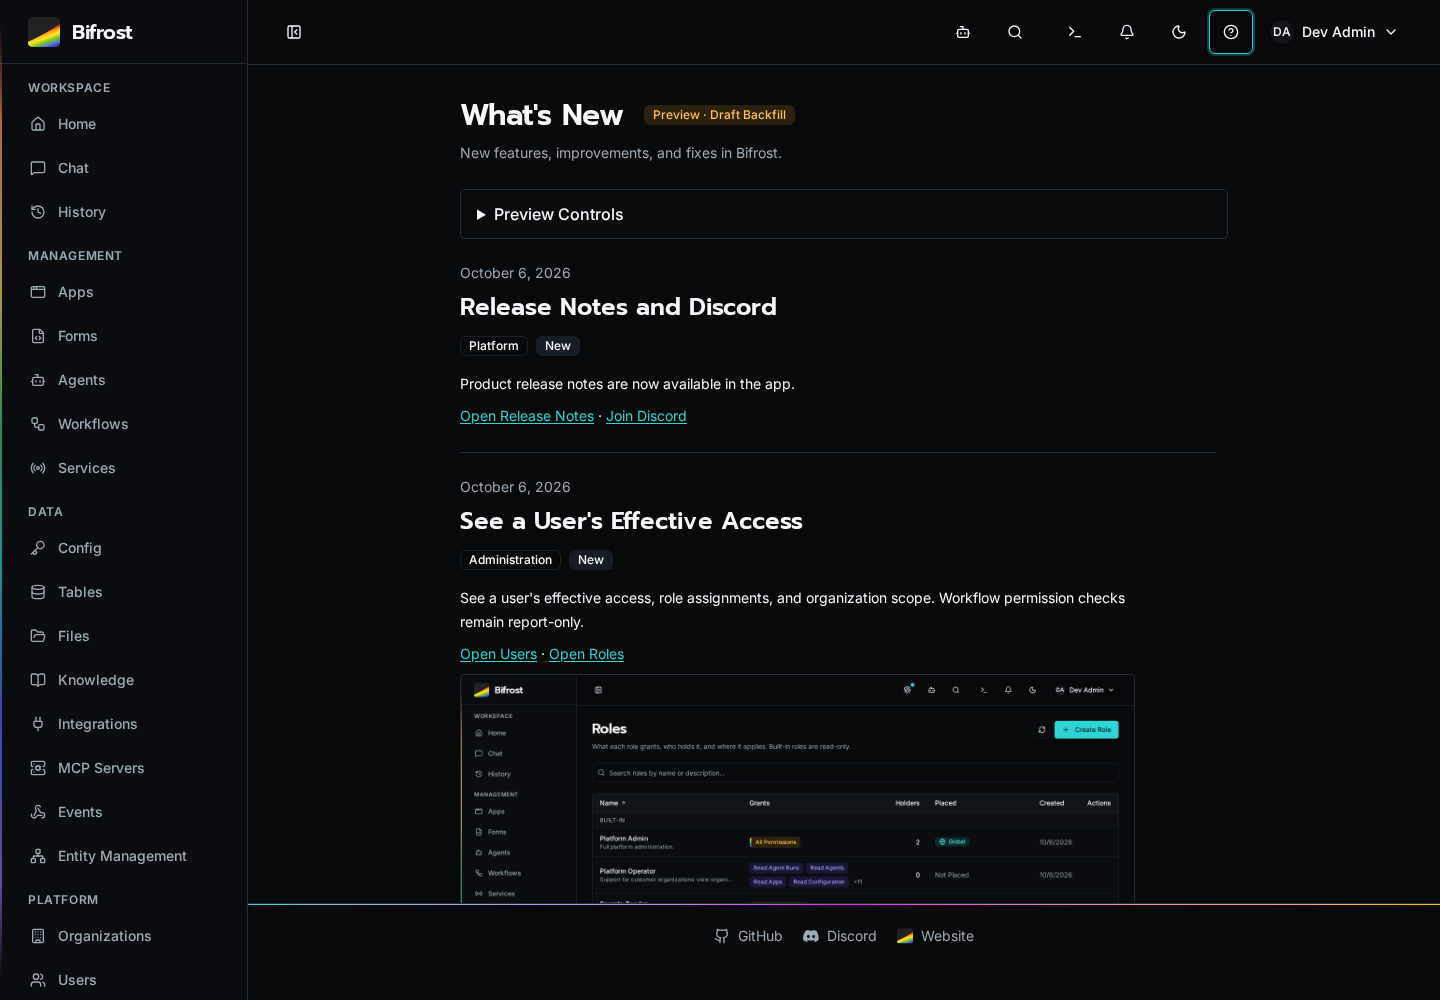
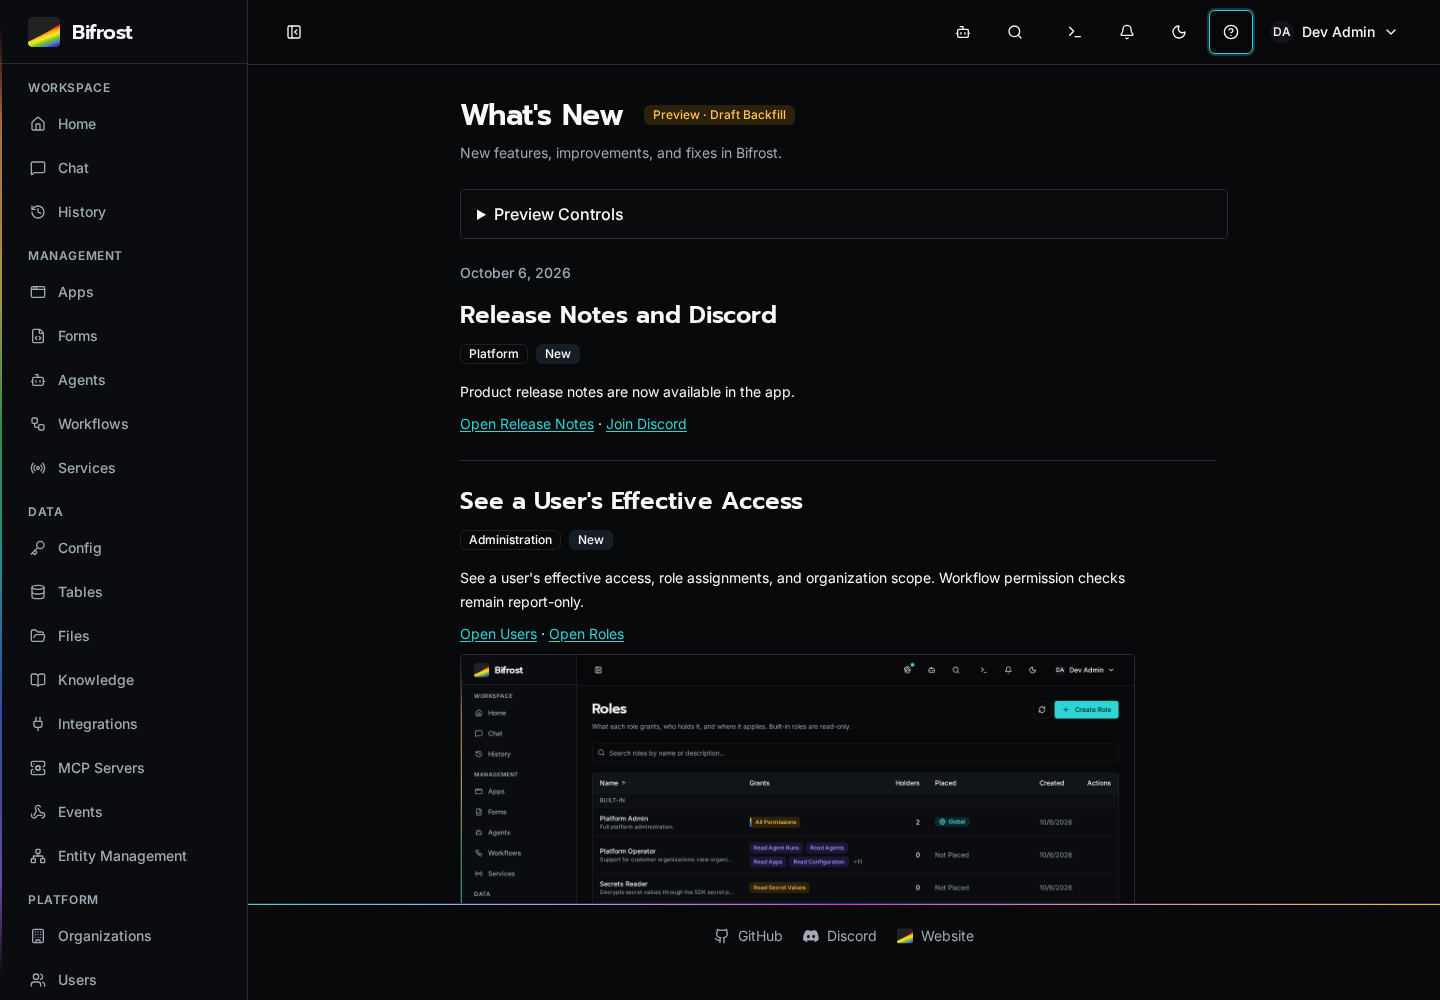
Group product updates by date in modal and history

diff --git a/client/src/components/layout/ProductUpdateContent.tsx b/client/src/components/layout/ProductUpdateContent.tsx
@@ -10,6 +10,45 @@ import type {
 	ProductUpdateEntry,
 } from "@/generated/product-updates";
 
+export function UpdateGroups({
+	entries,
+	missingImage = false,
+}: {
+	entries: ProductUpdateEntry[];
+	missingImage?: boolean;
+}) {
+	const formatter = new Intl.DateTimeFormat(undefined, { dateStyle: "long" });
+	const groups = new Map<string, ProductUpdateEntry[]>();
+	for (const entry of [...entries].sort(
+		(a, b) => Date.parse(b.published_at) - Date.parse(a.published_at),
+	)) {
+		const date = formatter.format(new Date(entry.published_at));
+		const group = groups.get(date);
+		if (group) group.push(entry);
+		else groups.set(date, [entry]);
+	}
+	return (
+		<div className="space-y-8">
+			{Array.from(groups, ([date, updates]) => (
+				<section key={date} aria-label={date}>
+					<h2 className="mb-4 text-sm font-medium text-muted-foreground">
+						{date}
+					</h2>
+					<div className="divide-y divide-border">
+						{updates.map((entry) => (
+							<UpdateEntry
+								key={entry.id}
+								entry={entry}
+								missingImage={missingImage}
+							/>
+						))}
+					</div>
+				</section>
+			))}
+		</div>
+	);
+}
+
 export function UpdateEntry({
 	entry,
 	missingImage = false,
@@ -21,14 +60,9 @@ export function UpdateEntry({
 		<article className="py-6 first:pt-0 last:pb-0">
 			<div className="flex flex-col gap-3">
 				<div className="min-w-0">
-					<p className="text-sm text-muted-foreground">
-						{new Intl.DateTimeFormat(undefined, {
-							dateStyle: "long",
-						}).format(new Date(entry.published_at))}
-					</p>
-					<h2 className="mt-2 font-display text-xl font-semibold leading-snug [overflow-wrap:anywhere] sm:text-2xl">
+					<h3 className="font-display text-xl font-semibold leading-snug [overflow-wrap:anywhere] sm:text-2xl">
 						{entry.title}
-					</h2>
+					</h3>
 				</div>
 				<div className="flex flex-wrap gap-2">
 					<Badge variant="outline">{entry.area}</Badge>

diff --git a/client/src/components/layout/ProductUpdateContent.test.tsx b/client/src/components/layout/ProductUpdateContent.test.tsx
@@ -1,7 +1,11 @@
 import { describe, expect, it, vi } from "vitest";
-import { fireEvent, renderWithProviders, screen } from "@/test-utils";
+import { fireEvent, renderWithProviders, screen, within } from "@/test-utils";
 import type { ProductUpdateEntry } from "@/generated/product-updates";
-import { CommunityFooter, UpdateEntry } from "./ProductUpdateContent";
+import {
+	CommunityFooter,
+	UpdateEntry,
+	UpdateGroups,
+} from "./ProductUpdateContent";
 vi.mock("@/components/branding/Logo", () => ({
 	Logo: () => <svg aria-hidden="true" />,
 }));
@@ -26,6 +30,39 @@ const entry: ProductUpdateEntry = {
 	],
 };
 describe("shared product update content", () => {
+	it("groups updates by their displayed date, newest first, with one date heading per group", () => {
+		const earlier = {
+			...entry,
+			id: "earlier",
+			title: "Earlier Update",
+			published_at: "2026-10-05T12:00:00Z",
+		};
+		const sameDay = { ...entry, id: "same-day", title: "Another Update" };
+		renderWithProviders(
+			<UpdateGroups entries={[earlier, entry, sameDay]} />,
+		);
+		const format = (date: string) =>
+			new Intl.DateTimeFormat(undefined, { dateStyle: "long" }).format(
+				new Date(date),
+			);
+		expect(
+			screen
+				.getAllByRole("heading", { level: 2 })
+				.map((heading) => heading.textContent),
+		).toEqual([format(entry.published_at), format(earlier.published_at)]);
+		const group = screen.getByRole("region", {
+			name: format(entry.published_at),
+		});
+		expect(
+			within(group)
+				.getAllByRole("heading", { level: 3 })
+				.map((heading) => heading.textContent),
+		).toEqual(["Upgrade Notice", "Another Update"]);
+		expect(
+			within(group).queryByRole("heading", { name: "Earlier Update" }),
+		).not.toBeInTheDocument();
+	});
+
 	it("preserves upgrade metadata, source links, and a useful image failure state without unread labels", () => {
 		renderWithProviders(<UpdateEntry entry={entry} />);
 		expect(

diff --git a/client/src/pages/ProductUpdatesPreview.tsx b/client/src/pages/ProductUpdatesPreview.tsx
@@ -3,7 +3,7 @@ import { useSearchParams } from "react-router-dom";
 import { AlertCircle, LoaderCircle, Megaphone } from "lucide-react";
 import {
 	CommunityFooter,
-	UpdateEntry,
+	UpdateGroups,
 } from "@/components/layout/ProductUpdateContent";
 import { useAuth } from "@/contexts/AuthContext";
 import { ListPageHeader } from "@/components/layout/ListPageHeader";
@@ -267,17 +267,10 @@ export function ProductUpdatesPreview({
 									description="New product updates will appear here."
 								/>
 							) : (
-								<div className="divide-y divide-border">
-									{visibleEntries.map((entry) => (
-										<UpdateEntry
-											key={entry.id}
-											entry={entry}
-											missingImage={
-												state === "missingimage"
-											}
-										/>
-									))}
-								</div>
+								<UpdateGroups
+									entries={visibleEntries}
+									missingImage={state === "missingimage"}
+								/>
 							)}
 							{otherChanges.length > 0 && (
 								<section

diff --git a/client/e2e/preview/product-updates.admin.spec.ts b/client/e2e/preview/product-updates.admin.spec.ts
@@ -23,6 +23,7 @@ test("admin sees new updates automatically and reopens history from Help", async
 			name: "Release Notes and Discord",
 		}),
 	).toBeVisible();
+	await expect(dialog.getByRole("heading", { name: "October 6, 2026", exact: true })).toHaveCount(1);
 	const community = dialog.getByRole("navigation", {
 		name: "Bifrost community links",
 	});
@@ -75,6 +76,7 @@ test("admin sees new updates automatically and reopens history from Help", async
 	await expect(
 		history.getByRole("heading", { name: "Release Notes and Discord" }),
 	).toBeVisible();
+	await expect(history.getByRole("heading", { name: "October 6, 2026", exact: true })).toHaveCount(1);
 	await expect(history.getByRole("tab")).toHaveCount(0);
 	await expect(
 		history.getByRole("button", { name: /Mark.*Read/ }),

diff --git a/client/src/components/layout/ProductUpdatesDialog.tsx b/client/src/components/layout/ProductUpdatesDialog.tsx
@@ -10,7 +10,7 @@ import {
 	DialogDescription,
 } from "@/components/ui/dialog";
 import { Alert, AlertDescription } from "@/components/ui/alert";
-import { CommunityFooter, UpdateEntry } from "./ProductUpdateContent";
+import { CommunityFooter, UpdateGroups } from "./ProductUpdateContent";
 import {
 	productUpdatesPreviewAdapter,
 	type ProductUpdatesAdapter,
@@ -105,11 +105,7 @@ export function ProductUpdatesDialog({
 							</AlertDescription>
 						</Alert>
 					)}
-					<div className="divide-y divide-border">
-						{entries.map((entry) => (
-							<UpdateEntry key={entry.id} entry={entry} />
-						))}
-					</div>
+					<UpdateGroups entries={entries} />
 				</div>
 				<div className="flex shrink-0 justify-end border-t px-6 py-4 sm:px-8">
 					<Button

diff --git a/docs/plans/product-updates-progress.md b/docs/plans/product-updates-progress.md
@@ -148,3 +148,11 @@ docker exec -w /app bifrost-debug-3fc9b38f-client-1 npx vite build --outDir /tmp
 ```
 
 Failure dispositions: a content edit briefly omitted a closing JSX block; the compiler caught it and it was restored before final tests. After changing View All Updates to open a new tab, one browser selector still targeted the original page; it now targets the history tab. That tab also gets an explicit mobile viewport because new tabs inherit the context viewport, not the opener's per-page override. Final screenshots reflect that correction. Ruff's first container run could not write the host cache as the container user; using `--no-cache` avoids that filesystem boundary without changing rule enforcement. No retries, skips or timeout increases were introduced. Full backend, full frontend suites and live publication were not run.
+
+## Date Grouping
+
+Modal and history now use shared UpdateGroups rendering: one date heading per local calendar day, newest first, with updates grouped beneath it. Individual entries no longer repeat their date. The existing bounded content scrollers and fixed modal header/actions/footer remain. Preview Controls remains DEV-only and simulates feed states, another admin's receipts and dev/stable bundles.
+
+Verification: focused component tests passed (3 files / 13 tests) using `docker exec -w /app bifrost-debug-3fc9b38f-client-1 npm test -- src/components/layout/ProductUpdateContent.test.tsx src/components/layout/ProductUpdatesDialog.test.tsx src/pages/ProductUpdatesPreview.test.tsx`; shared grouping coverage exercises multiple dates and same-day membership. `./test.sh client preview` passed in 9.9 seconds, asserting one date heading in modal and history plus the existing mobile bounds and receipt/new-tab flow. Screenshots refreshed and desktop/mobile modal inspected. `docker exec -w /app bifrost-debug-3fc9b38f-client-1 npx tsc -b --pretty false` passed. Scoped ESLint passed for ProductUpdateContent, its test, ProductUpdatesDialog and ProductUpdatesPreview in the debug client, and the actual browser spec through the whole-client Playwright image mount. Full suites were not run; no backend or API contracts changed.
+
+The first browser date-count assertion also counted Radix's dialog title, which is an h2. It now counts the exact date heading, preserving the single-date contract without assuming the dialog title's heading level. No retries or timeout changes were added.

diff --git a/docs/plans/product-updates-claude-handoff.md b/docs/plans/product-updates-claude-handoff.md
@@ -8,7 +8,7 @@ Worktree: `/home/jack/.codex/worktrees/ae47/bifrost`, branch `codex/product-upda
 
 - Eligible unseen updates automatically open in a scrollable modal for platform admins entering the authenticated shell. The displayed batch is acknowledged after rendering; fetching or a failed load alone writes no receipt. Closing keeps the underlying route intact. The modal stays quiet after the batch has been presented.
 - The modal has **View All Updates**, which opens `/whats-new` in a new tab, keeping the original modal available. The permanent path is **Help → Release Notes**. The admin-only Help (?) trigger sits immediately left of the user icon and contains Documentation, Release Notes, Website, Discord, GitHub, and the copyable version. Direct history visits remain unobstructed.
-- History is a plain feed. No manual mark-read action, per-item unread badge, inbox tabs, carousel, counters, or viewport-tracking system.
+- Modal and history group notes under a single date heading per local calendar day, newest first. History is a plain feed. No manual mark-read action, per-item unread badge, inbox tabs, carousel, counters, or viewport-tracking system.
 - Modal and history share content rendering and the persistent GitHub / Discord / Website footer with brand icons and a rainbow edge. Dates, areas/types, screenshots and substantive upgrade/security notices remain. Sources and credits sit under collapsed Source Details. All note links open a new tab.
 - The announcement says release notes are available in the app and Bifrost is now on Discord. All initial prose remains draft; publication has not occurred.
 
